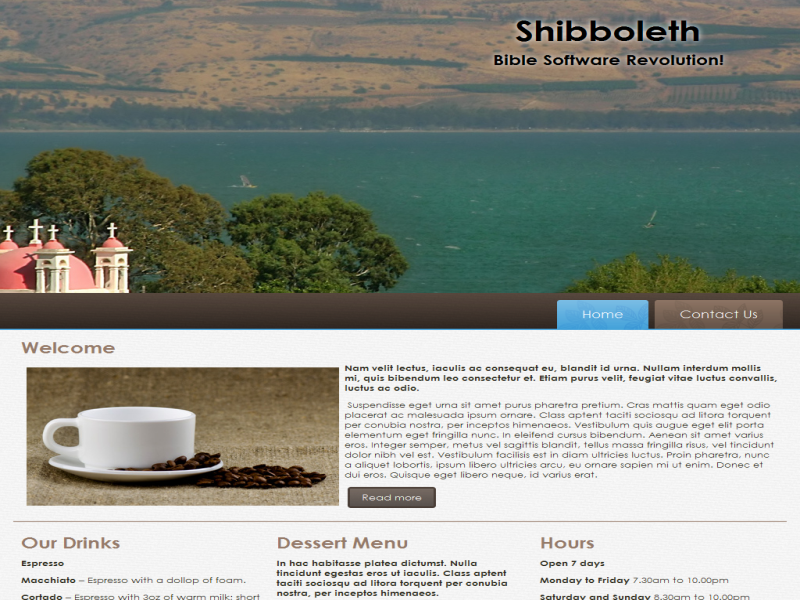
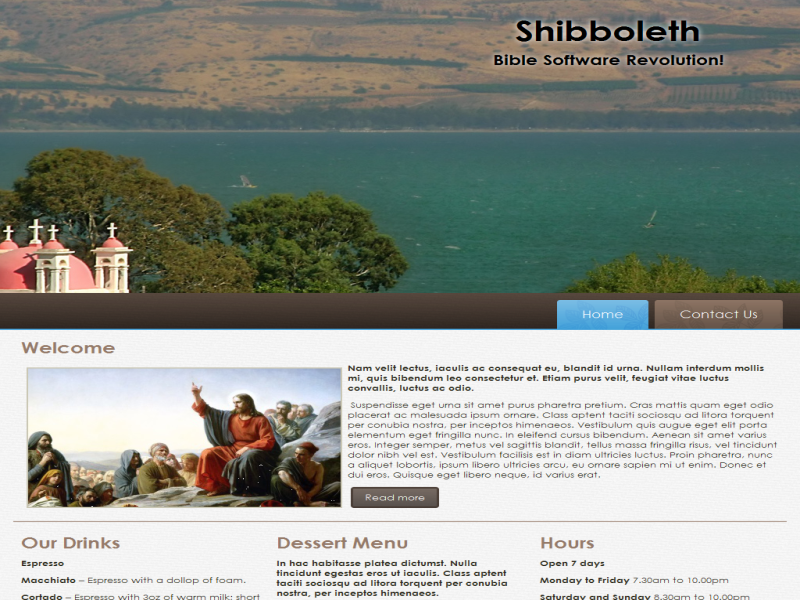
5

Changed region(s): [[0.0312, 0.6, 0.9688, 0.87]]

diff --git a/index.html b/index.html
@@ -57,7 +57,7 @@
     <div class="art-content-layout-row">
     <div class="art-layout-cell layout-item-1" style="width: 100%" >
         <h3>Welcome</h3>
-        <p><img width="400" height="236" alt="" src="images/DSC_3049.jpg" style="float: left; border-top-width: 2px; border-right-width: 2px; border-bottom-width: 2px; border-left-width: 2px;" class=""><span style="font-weight: bold;">Nam velit lectus, iaculis ac consequat eu, blandit id urna. Nullam interdum mollis mi, quis bibendum leo consectetur et. Etiam purus velit, feugiat vitae luctus convallis, luctus ac odio.</span></p>
+        <p><img width="400" height="236" alt="" src="images/Bloch-SermonOnTheMount2.jpg" style="float: left; border-top-style: solid; border-right-style: solid; border-bottom-style: solid; border-left-style: solid; border-top-color: rgb(202, 199, 180); border-right-color: rgb(202, 199, 180); border-bottom-color: rgb(202, 199, 180); border-left-color: rgb(202, 199, 180); border-top-width: 2px; border-right-width: 2px; border-bottom-width: 2px; border-left-width: 2px;" class=""><span style="font-weight: bold;">Nam velit lectus, iaculis ac consequat eu, blandit id urna. Nullam interdum mollis mi, quis bibendum leo consectetur et. Etiam purus velit, feugiat vitae luctus convallis, luctus ac odio.</span></p>
         <p>&nbsp;Suspendisse eget urna sit amet purus pharetra pretium. Cras mattis quam eget odio placerat ac malesuada ipsum ornare. Class aptent taciti sociosqu ad litora torquent per conubia nostra, per inceptos himenaeos. Vestibulum quis augue eget elit porta elementum eget fringilla nunc. In eleifend cursus bibendum. Aenean sit amet varius eros. Integer semper, metus vel sagittis blandit, tellus massa fringilla risus, vel tincidunt dolor nibh vel est. Vestibulum facilisis est in diam ultricies luctus. Proin pharetra, nunc a aliquet lobortis, ipsum libero ultricies arcu, eu ornare sapien mi ut enim. Donec et dui eros. Quisque eget libero neque, id varius erat.<br></p>
         <p>&nbsp;<a href="#" class="art-button">Read more</a>&nbsp;<br></p>
     </div>

diff --git a/new-page.html b/new-page.html
@@ -57,7 +57,7 @@
     <div class="art-content-layout-row">
     <div class="art-layout-cell layout-item-1" style="width: 100%" >
         <h3>Welcome</h3>
-        <p><img width="400" height="236" alt="" src="images/DSC_3049.jpg" style="float: left; border-top-width: 2px; border-right-width: 2px; border-bottom-width: 2px; border-left-width: 2px;" class=""><span style="font-weight: bold;">Nam velit lectus, iaculis ac consequat eu, blandit id urna. Nullam interdum mollis mi, quis bibendum leo consectetur et. Etiam purus velit, feugiat vitae luctus convallis, luctus ac odio.</span></p>
+        <p><img width="400" height="236" alt="" src="images/Bloch-SermonOnTheMount2.jpg" style="float: left; border-top-style: solid; border-right-style: solid; border-bottom-style: solid; border-left-style: solid; border-top-color: rgb(202, 199, 180); border-right-color: rgb(202, 199, 180); border-bottom-color: rgb(202, 199, 180); border-left-color: rgb(202, 199, 180); border-top-width: 2px; border-right-width: 2px; border-bottom-width: 2px; border-left-width: 2px;" class=""><span style="font-weight: bold;">Nam velit lectus, iaculis ac consequat eu, blandit id urna. Nullam interdum mollis mi, quis bibendum leo consectetur et. Etiam purus velit, feugiat vitae luctus convallis, luctus ac odio.</span></p>
         <p>&nbsp;Suspendisse eget urna sit amet purus pharetra pretium. Cras mattis quam eget odio placerat ac malesuada ipsum ornare. Class aptent taciti sociosqu ad litora torquent per conubia nostra, per inceptos himenaeos. Vestibulum quis augue eget elit porta elementum eget fringilla nunc. In eleifend cursus bibendum. Aenean sit amet varius eros. Integer semper, metus vel sagittis blandit, tellus massa fringilla risus, vel tincidunt dolor nibh vel est. Vestibulum facilisis est in diam ultricies luctus. Proin pharetra, nunc a aliquet lobortis, ipsum libero ultricies arcu, eu ornare sapien mi ut enim. Donec et dui eros. Quisque eget libero neque, id varius erat.<br></p>
         <p>&nbsp;<a href="#" class="art-button">Read more</a>&nbsp;<br></p>
     </div>
